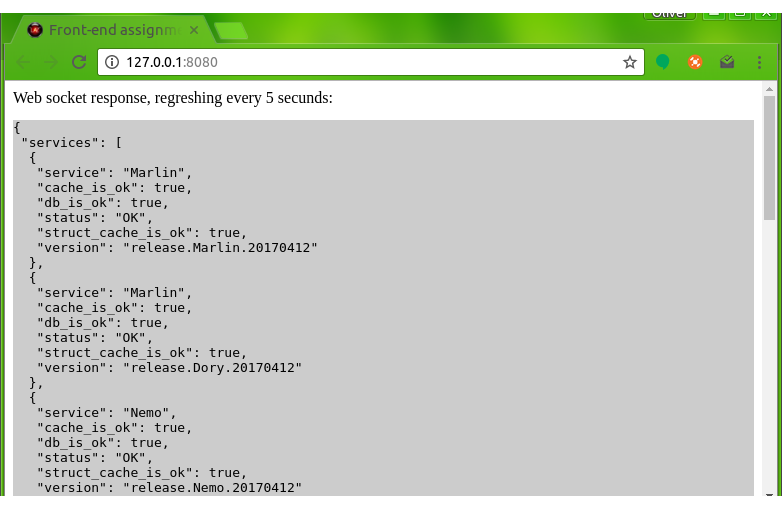
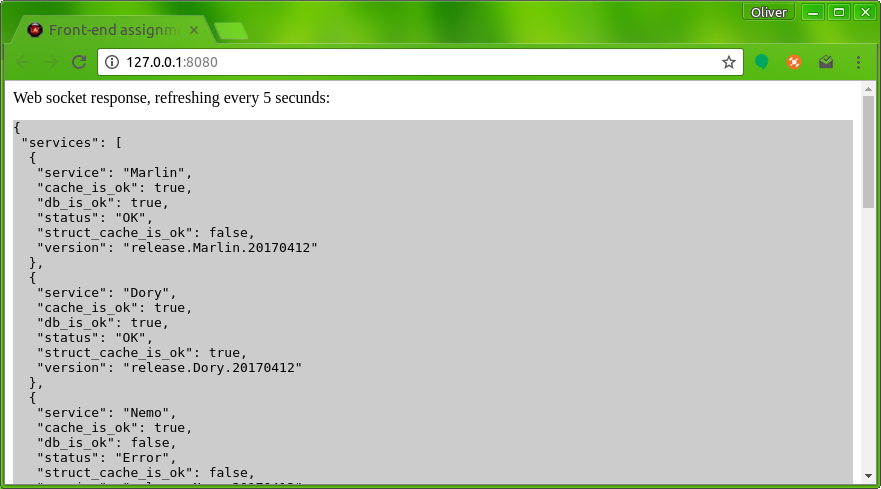
Typo fix

Changed region(s): [[0.0, 0.0, 1.0, 1.0]]

diff --git a/static/index.html b/static/index.html
@@ -12,7 +12,7 @@
     </style>
 </head>
 <body>
-    Web socket response, regreshing every 5 secunds:
+    Web socket response, refreshing every 5 secunds:
     <div id="container"></div>
     <script type="text/javascript">
         (function() {
